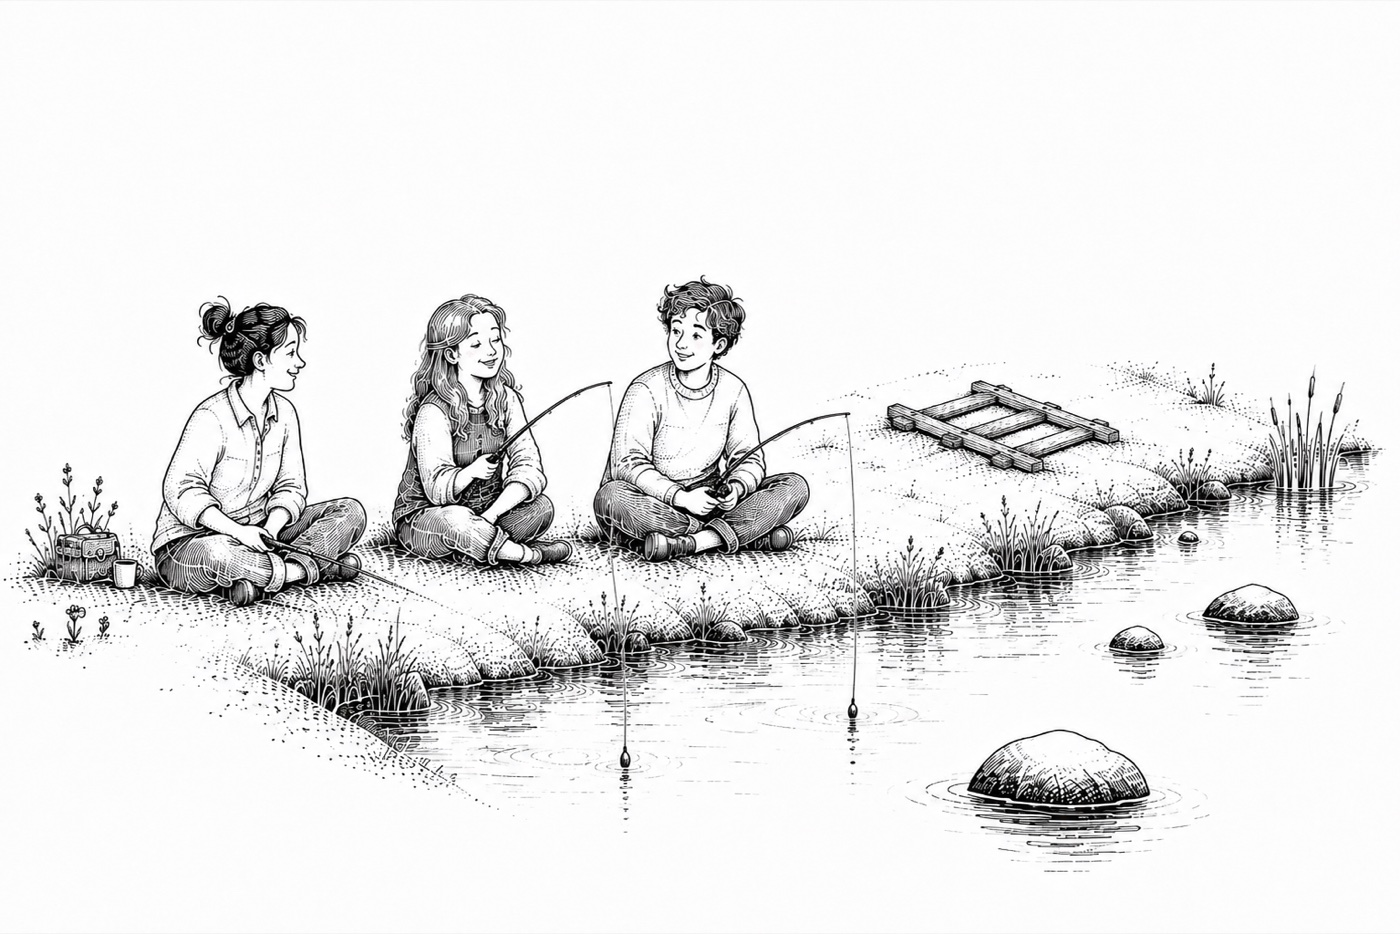
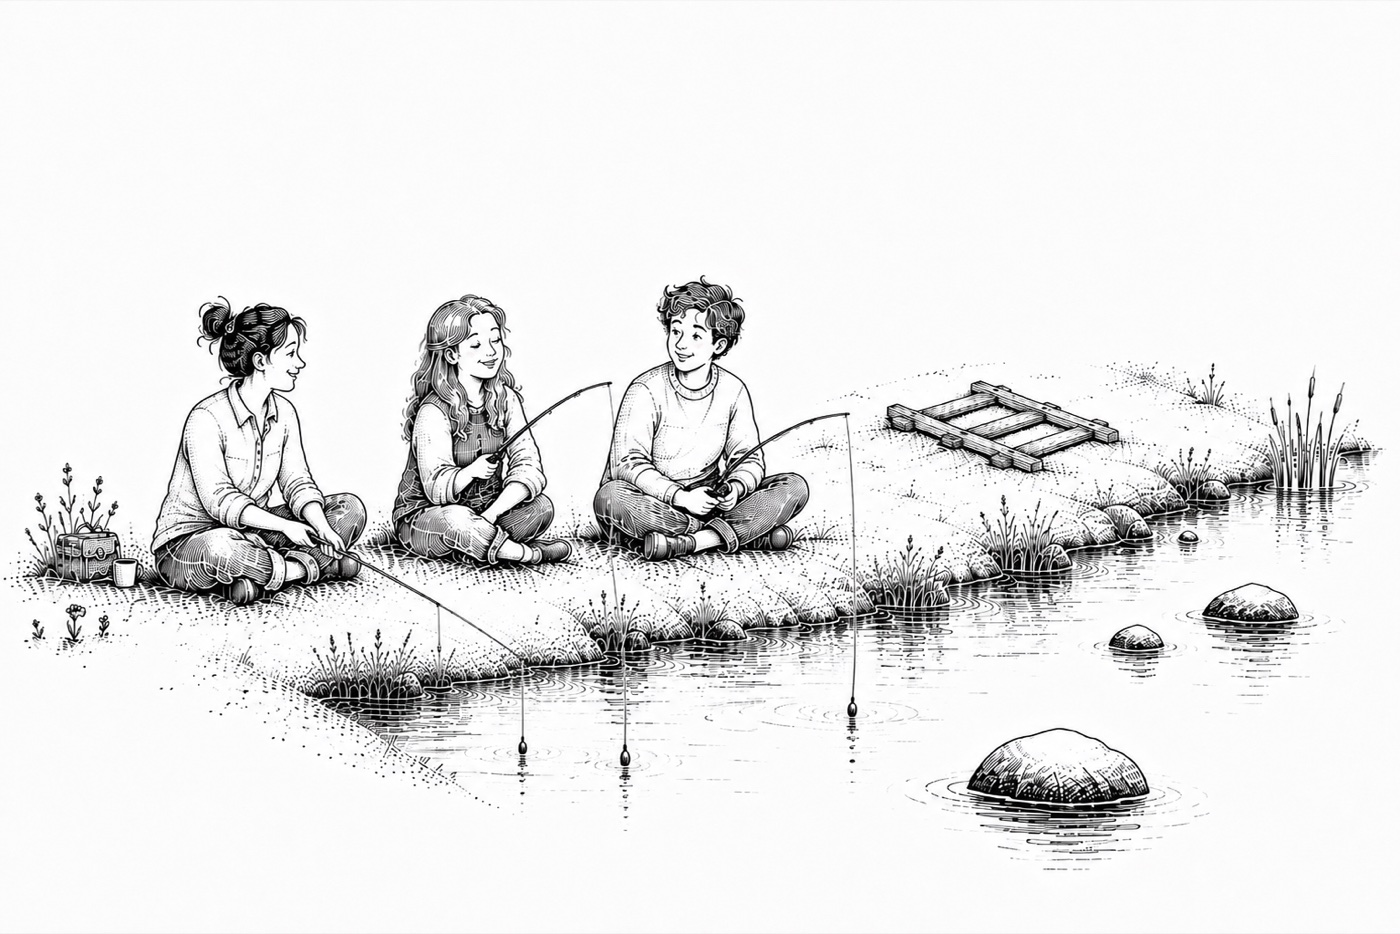
content: updated fishing-together illustration

diff --git a/docs/research/regular/index.html b/docs/research/regular/index.html
@@ -51,7 +51,7 @@
 </thead>
 <tbody>
 <tr>
-<td><strong>Совместная практика</strong>  Делаем одно и то же вместе, не отчитываемся</td>
+<td><strong>Совместная практика</strong> <br>Делаем одно и то же вместе, не отчитываемся</td>
 <td>●</td>
 <td>●</td>
 <td>●</td>

diff --git a/content/research/regular.md b/content/research/regular.md
@@ -51,7 +51,7 @@ template: page.html
 
 | Устранитель                                                                            | Калибровочный<br>барьер | Стартовый <br>барьер | Качественный<br>барьер | Средовой<br>барьер | Социальный<br>барьер |
 | -------------------------------------------------------------------------------------- | ----------------------- | -------------------- | ---------------------- | ------------------ | -------------------- |
-| **Совместная практика**  Делаем одно и то же вместе, не отчитываемся                   | ●                       | ●                    | ●                      |                    | ●                    |
+| **Совместная практика** <br>Делаем одно и то же вместе, не отчитываемся                | ●                       | ●                    | ●                      |                    | ●                    |
 | **Видимый прогресс** — фиксация роста: before/after, чеклист, счётчик                  |                         | ●                    | ●                      |                    | ●                    |
 | **Рефрейминг**  <br>«трудно? ты на правильном пути, ещё чуть-чуть»                     | ●                       |                      | ●                      | ●                  |                      |
 | **Мини-победа на каждой сессии**  Гарантированный момент «я справился»                 | ●                       | ●                    | ●                      |                    |                      |
